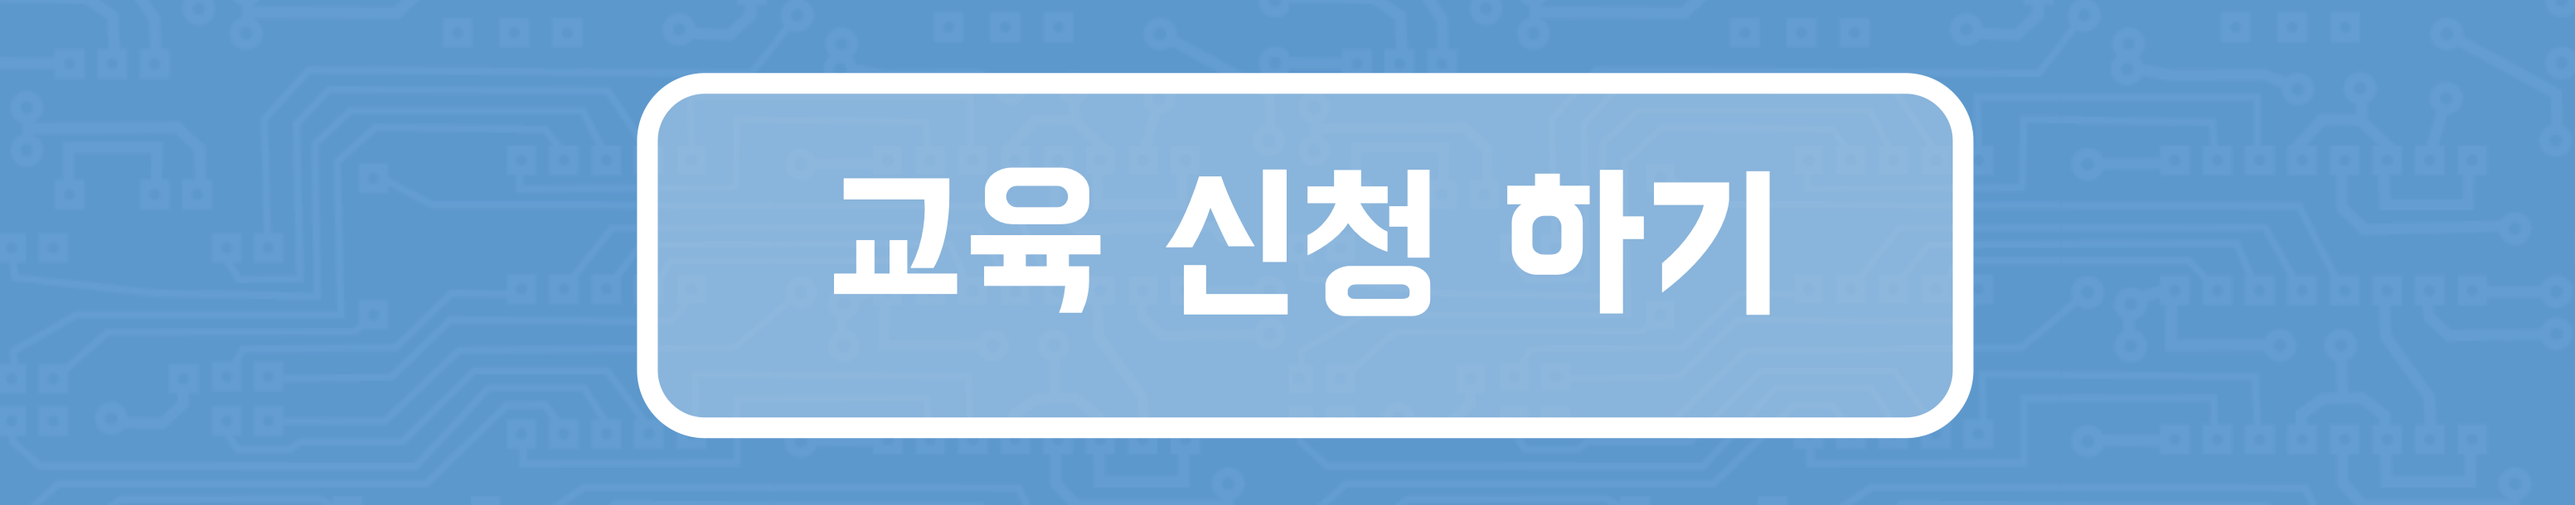
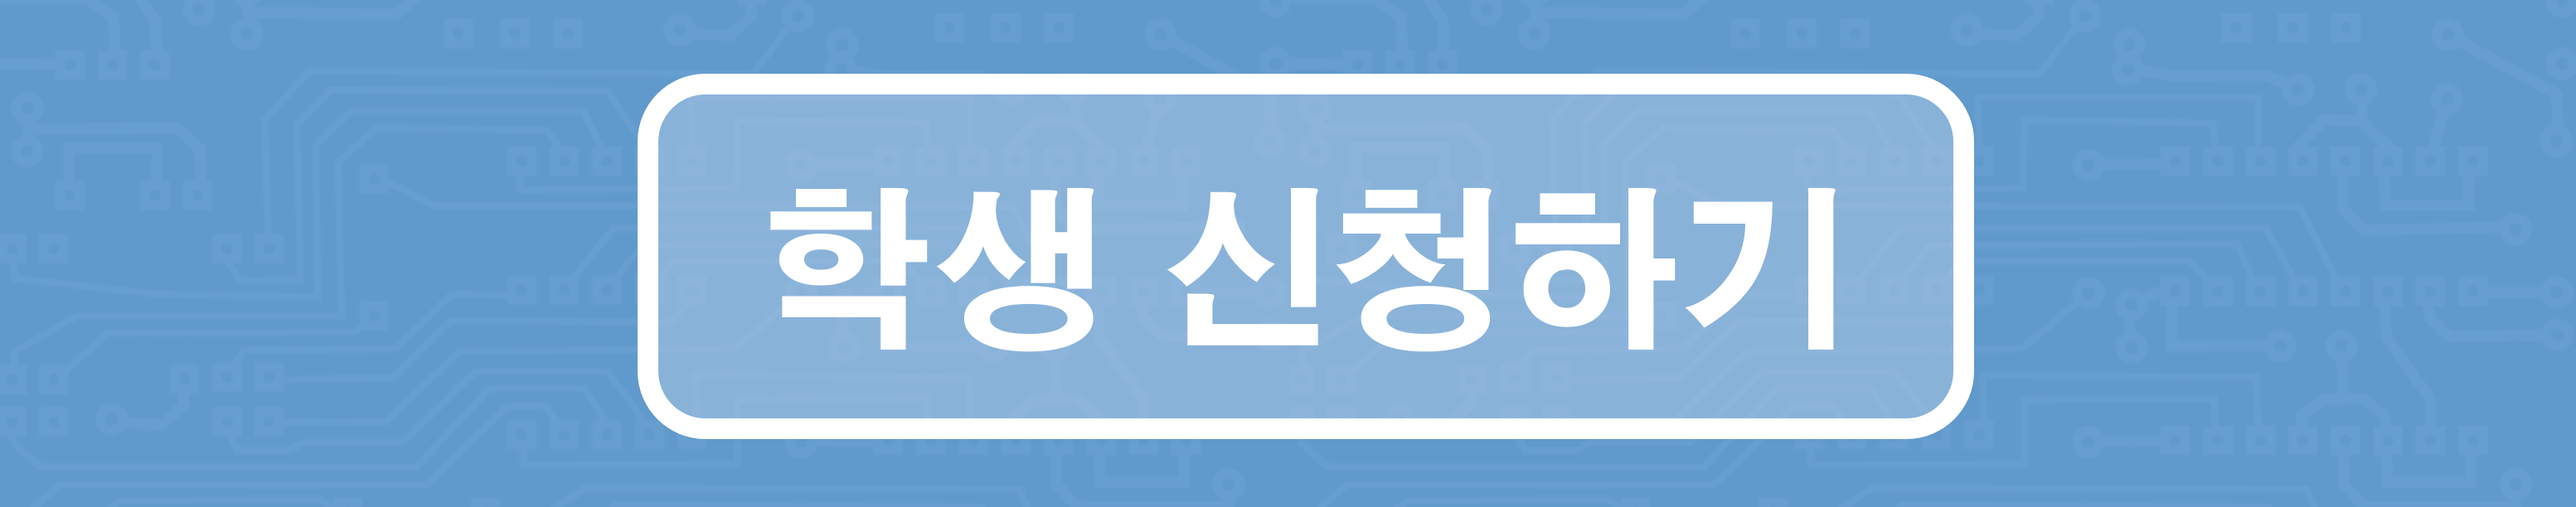
Add files via upload

Changed region(s): [[0.2811, 0.3115, 0.7183, 0.7164], [0.2811, 0.8098, 0.7495, 0.8721]]

diff --git a/public/SW_Edu_Day.html b/public/SW_Edu_Day.html
@@ -24,13 +24,13 @@
 	<div style="text-align:center">
 		 <!--a href="https://goo.gl/forms/9D2BMR3Hbr2vLIBx1"-->
 			 <a href="/form_swedudayTeacher.html">
-			 <img src="poster_application.png" alt="교육 신청 버튼"  style="width: 70%; height: auto;" border="0px" align="center"></a>
+			 <img src="poster_application_teacher.png" alt="교육 신청 버튼"  style="width: 70%; height: auto;" border="0px" align="center"></a>
 	</div>
 
 	<div style="text-align:center">
 		<!--a href="https://docs.google.com/spreadsheets/d/1xCxtOSxUr0O9vvx37VFjlbcyQGQOq0cnGRBOx7Fjm-U/edit?usp=sharing"-->
                 <a href="/search_teacher.html">
-			<img src="poster_check.png" alt="신청 확인 버튼" style="width: 70%; height: auto;" border="0px" align="center"></a>
+			<img src="poster_check_teacher.png" alt="신청 확인 버튼" style="width: 70%; height: auto;" border="0px" align="center"></a>
 	</div>
 
 

diff --git a/public/form_sweduday.html b/public/form_sweduday.html
@@ -180,7 +180,7 @@
                                                         <td class="col1"><label id="contentsText">신청 동기 (간단히 적어주세요)</label></td>
                                                         <td class="col2" colspan="2">
                                                                 <div class="ui input">
-                                                									<input class="inputbox" type="textarea" required maxlength="120" required rows="2" cols="20" name="motivation" />
+                                                									<input class="inputbox" required maxlength="120" type="textarea" required rows="2" cols="20" name="motivation" />
                                                                 </div>
                                                         </td>
                                                         <td></td>
